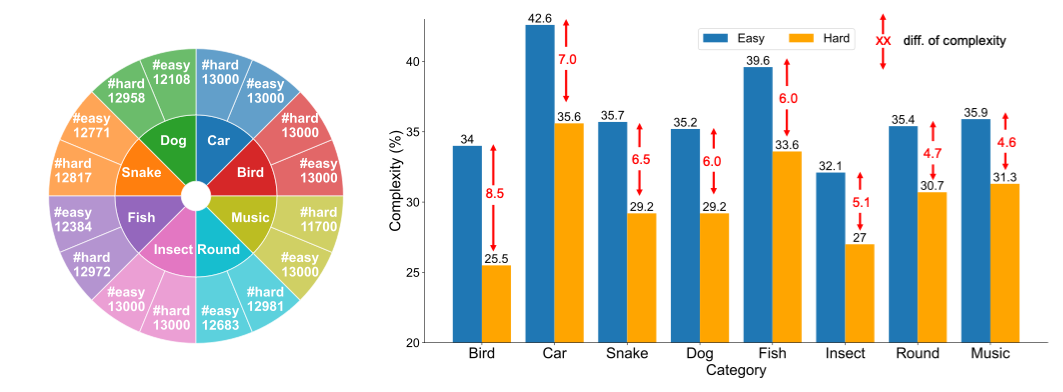
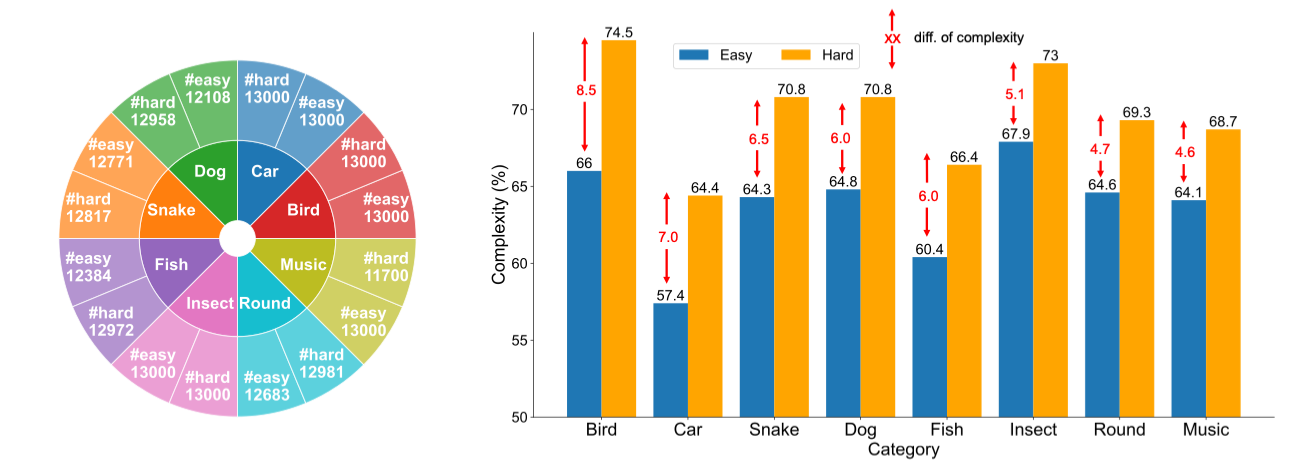
Update README

diff --git a/comp-dd/README.md b/comp-dd/README.md
@@ -8,9 +8,9 @@ Although there are numerous benchmarks for simpler tasks, there is a notable abs
 
 We breiefly describe how to construct Comp-DD as follows. For more details, please refer the Section 3 of our paper.
 
-1. **Evaluate complexity**: We first use our complexity metrics to evaluate all classes of ImageNet-1K. The complexity of an image if defined as the percentage of pixels with activation values above a predefined threshold (set to 0.5 in our case). The larger the value, the lower the complexity. Formally
+1. **Evaluate complexity**: We first use our complexity metrics to evaluate all classes of ImageNet-1K. We use the percentage of pixels with activation values above a predefined threshold (set to 0.5 in our case) to measure the complexity. The larger the value, the lower the complexity. Formally, the complexity of an image if defined as 
    $$
-   \frac{\sum_{h}\sum_{w} \mathbb{I}[M^{i}_{h,w} \geq 0.5]}{H \cdot W}
+   1-\frac{\sum_{h}\sum_{w} \mathbb{I}[M^{i}_{h,w} \geq 0.5]}{H \cdot W} \nonumber
    $$
    Then, the complexity of each class is then determined by averaging the complexity scores across all images within that class.
 
